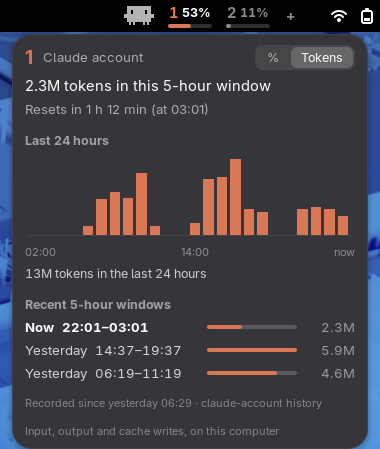
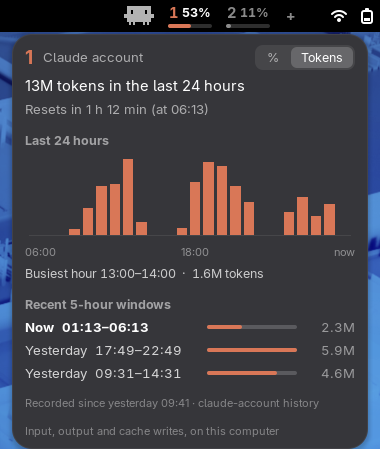
Tokens: the header shows the last 24 hours, the busiest hour goes under the chart
The window that's running is already the Now row, so the header no longer repeats it.

diff --git a/extension/claude-account-switcher@aimanelahssini/extension.js b/extension/claude-account-switcher@aimanelahssini/extension.js
@@ -572,10 +572,15 @@ export default class ClaudeAccountExtension extends Extension {
         const tokens = readTokens();
         const win = this._window(n);
         const pct = this._pct(n);
-        const winTokens = win && !win.ended ? tokensBetween(tokens, n, win.end - 5 * HOUR, win.end) : 0;
+        const now = Date.now() / 1000;
+        const firstHour = Math.floor(now / HOUR) * HOUR - 23 * HOUR;
+        const hours = hourlyUse(hist.filter(e => e.t >= firstHour - 6 * HOUR), firstHour);
+        const hourTokens = hours.map((_, i) => tokensBetween(tokens, n, firstHour + i * HOUR, firstHour + (i + 1) * HOUR));
+        const totalTokens = hourTokens.reduce((a, b) => a + b, 0);
+        // In tokens the window that's running is the Now row below, so the header shows the day.
         let current;
         if (inTokens)
-            current = winTokens ? `${short(winTokens)} tokens in this 5-hour window` : 'No tokens in this 5-hour window yet';
+            current = totalTokens ? `${short(totalTokens)} tokens in the last 24 hours` : 'No tokens in the last 24 hours';
         else
             current = typeof pct === 'number' ? `${Math.round(pct)}% of the 5-hour limit` : 'Usage unknown';
         box.add_child(new St.Label({text: current, style_class: 'claude-acct-history-now'}));
@@ -583,18 +588,20 @@ export default class ClaudeAccountExtension extends Extension {
 
         // Chart: what each of the last 24 hours used, hover a bar for its numbers
         box.add_child(new St.Label({text: 'Last 24 hours', style_class: 'claude-acct-history-title'}));
-        const now = Date.now() / 1000;
-        const firstHour = Math.floor(now / HOUR) * HOUR - 23 * HOUR;
-        const hours = hourlyUse(hist.filter(e => e.t >= firstHour - 6 * HOUR), firstHour);
         const chart = new St.DrawingArea({style_class: 'claude-acct-chart', width: 320, height: 84,
             reactive: true, track_hover: true});
         const detail = new St.Label({style_class: 'claude-acct-chart-detail'});
-        const hourTokens = hours.map((_, i) => tokensBetween(tokens, n, firstHour + i * HOUR, firstHour + (i + 1) * HOUR));
         const total = Math.round(hours.reduce((a, b) => a + b, 0));
-        const totalTokens = hourTokens.reduce((a, b) => a + b, 0);
+        const busiest = hourTokens.indexOf(Math.max(...hourTokens));
+        const hourName = i => {
+            const from = GLib.DateTime.new_from_unix_local(firstHour + i * HOUR);
+            return `${from.format('%H:00')}–${from.add_hours(1).format('%H:00')}`;
+        };
         const summary = () => {
+            // The day's total is in the header already; under the chart, its busiest hour.
             if (inTokens)
-                detail.text = totalTokens ? `${short(totalTokens)} tokens in the last 24 hours` : 'No tokens in the last 24 hours';
+                detail.text = totalTokens ? `Busiest hour ${hourName(busiest)}  ·  ${short(hourTokens[busiest])} tokens`
+                    : 'Hover a bar for its hour';
             else
                 detail.text = total ? `${total}% of the limit used in the last 24 hours` : 'Nothing used in the last 24 hours';
         };
@@ -606,8 +613,7 @@ export default class ClaudeAccountExtension extends Extension {
             const i = Math.max(0, Math.min(23, Math.floor(x / area.width * 24)));
             if (i !== area._hovered) {
                 area._hovered = i;
-                const from = GLib.DateTime.new_from_unix_local(firstHour + i * HOUR);
-                detail.text = `${from.format('%H:00')}–${from.add_hours(1).format('%H:00')}  ·  ` +
+                detail.text = `${hourName(i)}  ·  ` +
                     (inTokens ? `${short(hourTokens[i])} tokens` : `${Math.round(hours[i])}% used`);
                 area.queue_repaint();
             }

diff --git a/tests/shell/claude-test@tests/extension.js b/tests/shell/claude-test@tests/extension.js
@@ -225,8 +225,8 @@ async function run() {
     check('tokens: per window', rows.length === 3 && rows.every(r => /^[\d.]+[kM]$/.test(r.get_children().at(-1).text)), rowTexts().join(' | '));
     check('tokens: switch shows it', find('claude-acct-unit-btn').find(btn => btn.label === 'Tokens').checked);
     detail = find('claude-acct-chart-detail')[0];
-    check('tokens: chart', /^[\d.]+[kM] tokens in the last 24 hours$/.test(detail.text), detail.text);
-    check('tokens: header', /tokens in this 5-hour window$/.test(find('claude-acct-history-now')[0].text), find('claude-acct-history-now')[0].text);
+    check('tokens: busiest hour under the chart', /^Busiest hour \d\d:00–\d\d:00  ·  [\d.]+[kM] tokens$/.test(detail.text), detail.text);
+    check('tokens: header is the last 24 hours', /^[\d.]+[kM] tokens in the last 24 hours$/.test(find('claude-acct-history-now')[0].text), find('claude-acct-history-now')[0].text);
     await shot('history-tokens', ext, false, b1._menu.actor);
     b1._menu.close();
     await sleep(400);
@@ -256,10 +256,34 @@ async function run() {
     out('DONE');
 }
 
+// TEST_ONLY=tokens-panel: just the history panel in tokens.
+async function tokensPanel() {
+    let ext;
+    for (let i = 0; i < 40 && !ext?._buttons?.length; i++) {
+        await sleep(500);
+        ext = Main.extensionManager.lookup(UUID)?.stateObj;
+    }
+    Main.overview.hide();
+    await sleep(1000);
+    const accounts = `${GLib.get_home_dir()}/.claude/accounts`;
+    GLib.file_set_contents(`${accounts}/.panel-unit`, 'tokens\n');
+    const b1 = ext._buttons.find(b => b._slot === '1');
+    ext._toggleHistory(b1);
+    await sleep(800);
+    const all = a => [a, ...a.get_children().flatMap(all)];
+    const find = cls => all(b1._menu.box).filter(c => c.has_style_class_name?.(cls));
+    const header = find('claude-acct-history-now')[0].text, detail = find('claude-acct-chart-detail')[0].text;
+    check('tokens: header is the last 24 hours', /^[\d.]+[kM] tokens in the last 24 hours$/.test(header), header);
+    check('tokens: busiest hour under the chart', /^Busiest hour \d\d:00–\d\d:00  ·  [\d.]+[kM] tokens$/.test(detail), detail);
+    check('tokens: Now row keeps the 5-hour window', /^Now .* [\d.]+[kM]$/.test(find('claude-acct-window')[0].get_children().map(c => c.text).filter(Boolean).join(' ')));
+    await shot('history-tokens', ext, false, b1._menu.actor);
+    out('DONE');
+}
+
 export default class TestDriver extends Extension {
     enable() {
         GLib.idle_add(GLib.PRIORITY_DEFAULT, () => {
-            run().catch(e => out(`ERROR ${e}\n${e.stack}`)).finally(() => {
+            (GLib.getenv("TEST_ONLY") === "tokens-panel" ? tokensPanel() : run()).catch(e => out(`ERROR ${e}\n${e.stack}`)).finally(() => {
                 GLib.timeout_add(GLib.PRIORITY_DEFAULT, 500, () => global.context.terminate());
             });
             return GLib.SOURCE_REMOVE;

diff --git a/README.md b/README.md
@@ -35,7 +35,7 @@ without restarting, and see how much of each account's 5-hour limit is used.</p>
   Claude is done, then does what closing the lid normally does.
 - **A CLI too.** Everything works from the terminal with `claude-account`.
 
-<p align="center"><img src="docs/history.png" width="380" alt="History panel in percent: 53% of the 5-hour limit, orange hourly bars for the last 24 hours, and recent 5-hour windows with their peak"> <img src="docs/history-tokens.png" width="380" alt="The same panel switched to tokens: 2.3M tokens in this 5-hour window, hourly bars in tokens, and tokens per window"></p>
+<p align="center"><img src="docs/history.png" width="380" alt="History panel in percent: 53% of the 5-hour limit, orange hourly bars for the last 24 hours, and recent 5-hour windows with their peak"> <img src="docs/history-tokens.png" width="380" alt="The same panel switched to tokens: 13M tokens in the last 24 hours, hourly bars in tokens with the busiest hour, and tokens per window"></p>
 
 ## Options
 
